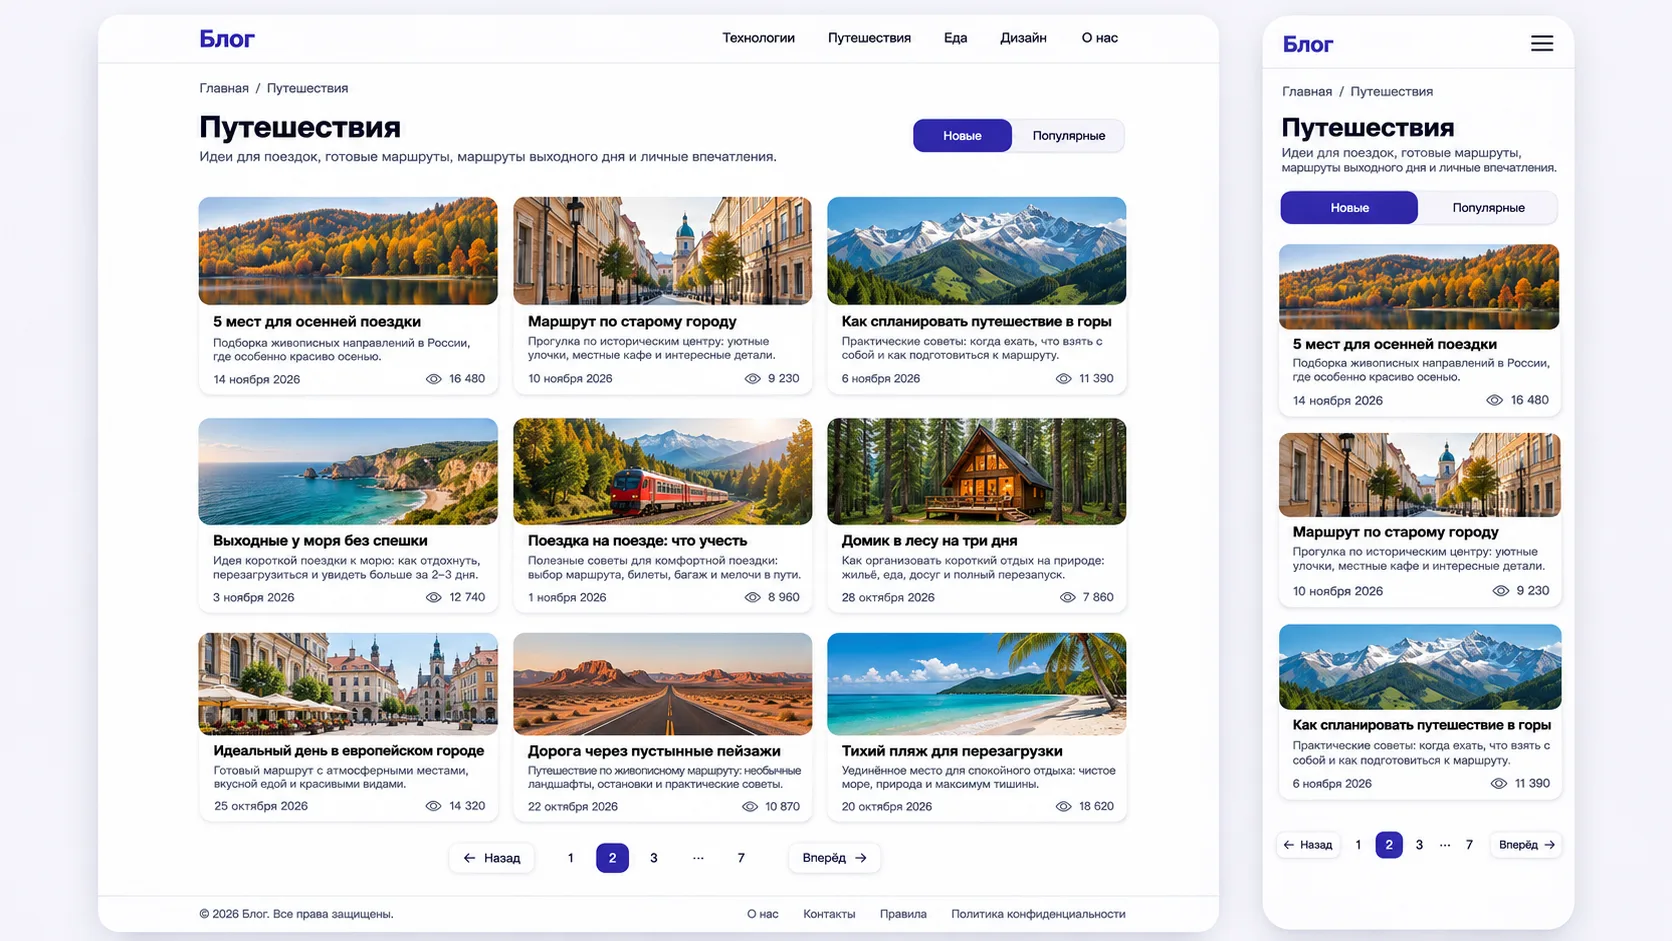
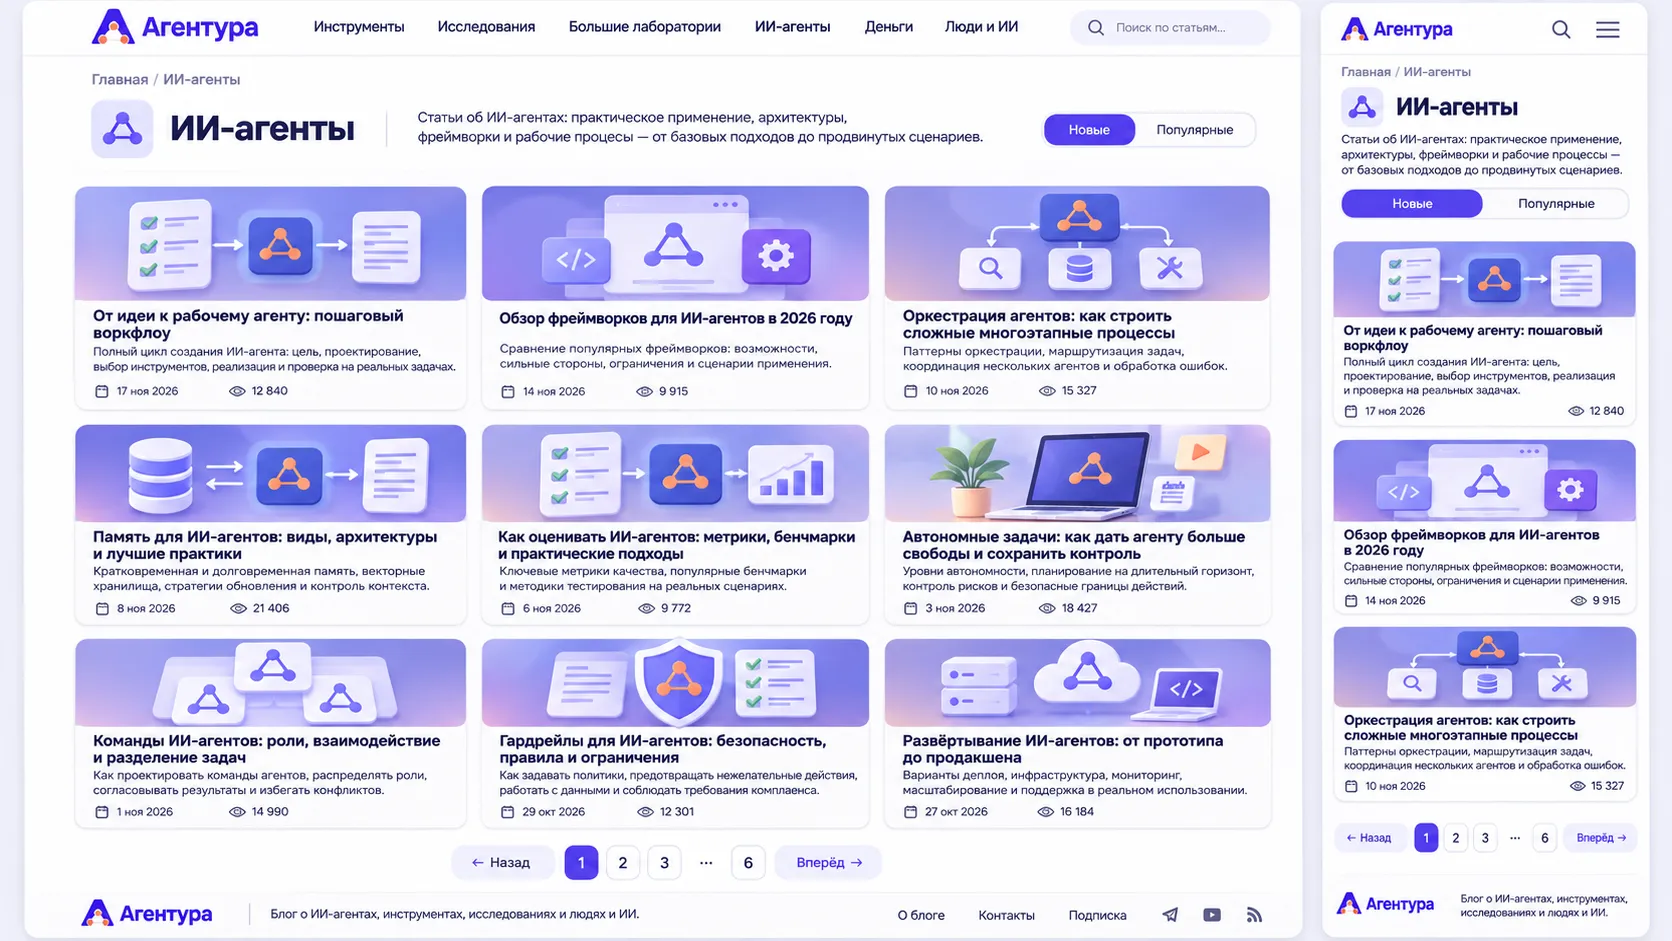
документация: вёрстка и сборка стилей, новые макеты, этап 5 готов

diff --git a/docs/plan.md b/docs/plan.md
@@ -11,7 +11,8 @@
 - Серверный рендеринг, страницы работают без JS.
 - Демо на Render - отдельный образ «всё в одном»: nginx, php-fpm и MySQL 8.4 (настроен под 512 МБ); при старте база создаётся
   и заполняется сидером, данные эфемерные.
-- SCSS собирается dart-sass в отдельной стадии Docker-образа, собранный CSS в git не попадает.
+- SCSS собирает dart-sass из стадии `sass` в Dockerfile (бинарник без Node.js): в разработке - сервис `sass` в compose
+  с `--watch`, образ для демо соберёт CSS той же стадией. Собранный CSS в git не попадает.
 
 ## Архитектура
 Тонкие контроллеры, весь SQL в репозиториях, Smarty только выводит. Зависимости передаются через конструктор
@@ -55,10 +56,30 @@
   на список по дате: на одной и той же странице у них разные статьи, и такой canonical поисковик счёл бы ошибкой.
 - `/sitemap.xml` из базы с `lastmod`, `/robots.txt` со ссылкой на sitemap; RSS 2.0 `/feed.xml` и `/llms.txt` (формат llmstxt.org,
   каждая статья один раз - в основной категории) - тоже из базы. Адреса собирает один класс `Urls`.
-- Картинка для соцсетей у страниц без обложки - `/og.png` из `Config`, сам файл появится на этапе вёрстки.
+- Картинка для соцсетей у страниц без обложки - `/og.jpg` (1200×630) из `Config`.
 - Картинки с размерами, `loading="lazy"`, первая на экране - `fetchpriority="high"`.
-- Один минифицированный CSS с версией в адресе, gzip и кэш статики в nginx, OPcache в проде. Цель - Lighthouse 95+.
-- Доступность: контраст, `alt`, видимый фокус, `aria-current`.
+- Один минифицированный CSS с версией в адресе (модификатор Smarty `asset` дописывает `?v=` со временем изменения файла),
+  gzip, кэш на год для `/assets/` и 30 дней для обложек и иконок в nginx, OPcache в проде. Цель - Lighthouse 95+.
+- Доступность: контраст AA, `alt`, видимый фокус, `aria-current`, ссылка «Перейти к содержимому», `prefers-reduced-motion`.
+
+## Вёрстка
+- Макеты - `docs/design/` (главная, категория, статья, логотип). Статья на макете - узкая колонка по центру;
+  по решению владельца она шире: две колонки, текст и сайдбар от одного левого края. Поиска и ссылок подвала
+  («О блоге», «Контакты», соцсети) с макетов нет намеренно: таких страниц в ТЗ нет, в подвале только RSS.
+- Широкий контейнер до 1440px, mobile-first, брейкпоинты 640, 1024 и 1280px. SCSS в `assets/scss`: `abstracts` (брейкпоинты
+  и миксины), `base` (шрифт, CSS-переменные темы, сброс, база), `layout` (контейнер, шапка, подвал), `components` - BEM-блоки,
+  `pages` - стили отдельных страниц. Без CSS-фреймворков; состояние (текущая категория, сортировка, страница) стилизуется
+  по `aria-current`, а не отдельным классом.
+- Шрифт Manrope (SIL OFL) свой, не с Google Fonts: вариативный woff2, только кириллица и латиница - два файла на все
+  начертания, ~40 КБ, `font-display: swap` и preload. Системный шрифт был бы легче, но на Windows и macOS выглядит
+  по-разному и далёк от макетов.
+- Иконки - inline SVG из Lucide (лицензия ISC) в `partials/icon.tpl`; иконка категории выбирается по slug
+  в `partials/category-icon.tpl`: это оформление, а не данные, поэтому в шаблоне, а не в базе.
+- Меню на телефоне открывается без JS: флажок перед списком и `:checked` в CSS, работает с клавиатуры.
+- На телефоне три статьи секции главной - ряд с прокруткой вбок, а не столбик: страница короче в два раза, статьи все на месте.
+- Коралловый `#ff6b4a` - только акценты; у кнопки с белым текстом он темнее (`#cf4428`), иначе контраст ниже AA.
+- Логотип, иконки для телефона (web manifest, 192 и 512, apple-touch-icon), картинка баннера и OG-картинка заказаны
+  у ChatGPT, в вёрстке только подключены.
 
 ## Тесты и качество
 - PHPUnit и PHPStan - только dev-зависимости (инструменты, не фреймворк приложения).
@@ -73,9 +94,9 @@
 3. **База и сидинг** (готово) - схема, подключение, сидер, интеграционные тесты.
 4. **Страницы** (готово) - главная, категория (сортировка и пагинация), статья (просмотры и похожие), sitemap и robots,
    RSS и llms.txt; разметка под макеты без стилей.
-5. **Вёрстка** - SCSS по новым макетам, сборка CSS с версией в адресе, адаптив под мобильные. Макеты, логотип, иконки
-   для установки на телефон (web manifest, 192 и 512, apple-touch-icon) и OG-картинку по умолчанию заказываем у ChatGPT,
-   в вёрстке только подключаем.
+5. **Вёрстка** (готово) - SCSS по новым макетам, сборка CSS с версией в адресе, адаптив под мобильные. Макеты, логотип,
+   иконки для установки на телефон (web manifest, 192 и 512, apple-touch-icon) и OG-картинку по умолчанию заказываем
+   у ChatGPT, в вёрстке только подключаем.
 6. **README и демо** - короткий README со скриншотами (десктоп и мобильный), документация по архитектуре и БД,
    образ «всё в одном» и демо на Render.
 7. **Финальное ревью** - свежий ревьюер, проверка в браузере на десктопе и мобильном, сверка с ТЗ по пунктам.

diff --git a/CLAUDE.md b/CLAUDE.md
@@ -6,6 +6,9 @@
 ## Запуск
 - `docker compose up -d --build` - сайт на http://localhost:8080 (порт - `APP_PORT`).
 - Код монтируется в контейнер, правки видны сразу; скомпилированные шаблоны Smarty лежат в томе `var`.
+- Стили: сервис `sass` (dart-sass из стадии `sass` в `Dockerfile`) собирает `assets/scss/app.scss` в `public/assets/css/app.css`
+  и пересобирает при каждом изменении; nginx стартует после первой сборки. Собранный CSS в git не попадает.
+  Ошибка в SCSS - в `docker compose logs sass`.
 - `docker compose exec php php bin/seed.php --fresh` - пересоздать таблицы по `database/schema.sql` и заполнить базу из `database/seeds/`.
   Схема применяется целиком, изменения - через `--fresh`, данные учебные (миграций нет).
 - Тестовая база `blog_test` создаётся скриптом из `docker/mysql/init` при первом создании тома MySQL;
@@ -21,7 +24,8 @@
   фикстуры - `insertCategory()` и `insertPost()` (первая категория в списке - основная). `$rollBack = true` ведёт тест
   в транзакции с откатом - так работают тесты репозиториев и страниц. Функциональные без базы (`AppTest`) проверяют,
   что соединение не открывается. Части страниц тесты ищут по смыслу разметки (`aria-label`, заголовки), а не по CSS-классам.
-- CI (`.github/workflows/ci.yml`): `composer validate --strict`, PHPStan и PHPUnit на PHP 8.1 и 8.5 - на push в `main` и в pull request.
+- CI (`.github/workflows/ci.yml`): `composer validate --strict`, PHPStan и PHPUnit на PHP 8.1 и 8.5, отдельной задачей - сборка SCSS
+  стадией `sass` из `Dockerfile`; на push в `main` и в pull request.
 
 ## Маршруты
 - `/` - главная: категории со статьями, в каждой три последние статьи и ссылка «Все статьи».
@@ -44,8 +48,13 @@
 - `src/Blog` - предметная область без SQL и HTTP: сущности `Category`, `PostCard` (статья в списках) и `Post` (статья целиком),
   `Slug`, `Sort` и `ListingQuery` (разбор `sort`/`page`), `ArticleText` (текст статьи на блоки), `Urls` (схема адресов).
 - `src/Seo` - `Meta` и `PageMeta` (мета-теги, хлебные крошки и JSON-LD страниц), `Sitemap`, `RssFeed`, `LlmsTxt`.
-- `templates` - Smarty: `layout.tpl` и шаблоны страниц, общие куски в `partials/` (карточка, обложка, пагинация, крошки), ошибки в `errors/`.
-- `Dockerfile` и `docker/nginx` - окружение для разработки; образ для демо появится на этапе 6.
+- `templates` - Smarty: `layout.tpl` и шаблоны страниц, общие куски в `partials/` (карточка, обложка, пагинация, крошки,
+  иконки), ошибки в `errors/`.
+- `assets/scss` - стили: `abstracts` (брейкпоинты, миксины), `base` (шрифт, CSS-переменные темы, сброс), `layout`,
+  `components` (BEM-блоки), `pages`. `public/assets` - шрифты, картинки оформления и собранный CSS; в корне `public` -
+  favicon, иконки для телефона, `site.webmanifest` и `og.jpg`.
+- `Dockerfile` (стадия `sass` - сборщик стилей, последняя - PHP для разработки) и `docker/nginx` - окружение для разработки;
+  образ для демо появится на этапе 6.
 
 ## Правила кода
 - `declare(strict_types=1)`, типы везде, `final` и `readonly` где уместно.
@@ -59,6 +68,11 @@
 - Вывод в шаблонах экранируется по умолчанию; `nofilter` - только для заранее безопасных данных (JSON-LD).
   Текст статьи не HTML: `ArticleText` делит его на блоки, теги строит шаблон.
 - Smarty - только для HTML. XML (sitemap, RSS) собирает `XMLWriter`, текст (robots, llms) - PHP: HTML-экранирование испортило бы их.
+- Файлы оформления из `public/assets` подключаются через модификатор `asset` (`{'/assets/css/app.css'|asset}`): он дописывает
+  `?v=` со временем изменения, а nginx отдаёт `/assets/` с кэшем на год. Шрифты из CSS - без версии, их файлы не меняются.
+- Вёрстка: mobile-first, классы по BEM, без CSS-фреймворков; текущий пункт меню, сортировки и страницы стилизуется по `aria-current`.
+  Иконки - только Lucide (ISC) через `partials/icon.tpl`, иконка категории - по slug в `partials/category-icon.tpl`.
+  Картинки и графику не рисовать кодом - их заказывает владелец.
 - Комментарии только там, где неочевидно «почему». Комментарии и тексты для пользователя - на русском.
 - Простота важнее «энтерпрайзности»: не добавлять слои и абстракции без реальной нужды.
 
